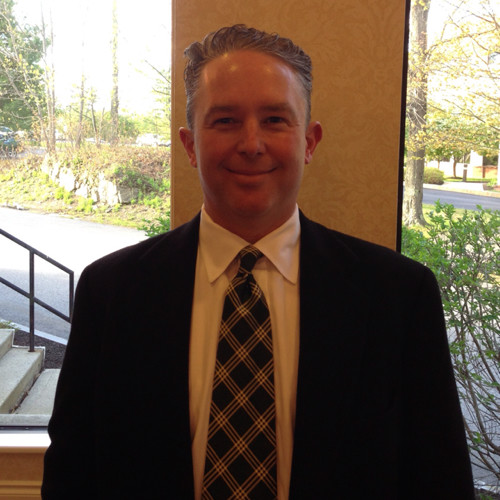
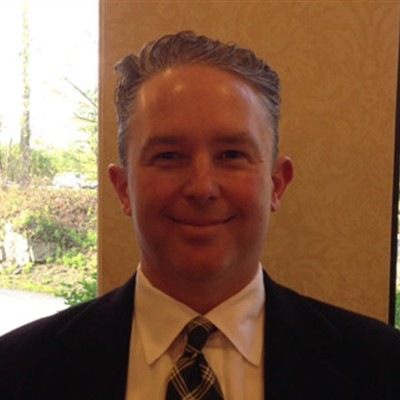
About: tighter crop on Scott's photo

diff --git a/about.html b/about.html
@@ -53,7 +53,7 @@
   <div style="max-width: 1200px; margin: 0px auto; display: grid; gap: 20px;">
     <div style="display: grid; grid-template-columns: repeat(auto-fit, minmax(300px, 1fr)); gap: 20px;">
       <article style="background: rgb(255, 255, 255); border-radius: 28px; padding: 40px; display: grid; gap: 20px; align-content: start;">
-        <img src="/assets/scott.jpg" alt="Scott Karkos, founder of MoorSafe" width="88" height="88" style="width: 88px; height: 88px; border-radius: 50%; object-fit: cover; object-position: 50% 20%;" loading="lazy" decoding="async">
+        <img src="/assets/scott.jpg?v=2" alt="Scott Karkos, founder of MoorSafe" width="88" height="88" style="width: 88px; height: 88px; border-radius: 50%; object-fit: cover; object-position: 50% 20%;" loading="lazy" decoding="async">
         <div style="display: grid; gap: 6px;"><span style="font-size: 13px; font-weight: 700; letter-spacing: 0.08em; text-transform: uppercase; color: rgb(138, 147, 157);">Founder</span><h2 style="font-size: 32px; font-weight: 800;">Scott Karkos</h2></div>
         <p style="font-size: 16px; line-height: 1.6; color: rgb(90, 102, 115); font-weight: 500;">Thirty years of worldwide industrial sourcing and a deep network of manufacturing partners. B.S. in Business, UMass Boston. Scott founded MoorSafe to bring a Maine-built answer to a problem he'd watched harbormasters and boat owners wrestle with year after year.</p>
       </article>

diff --git a/src/pages/about.html b/src/pages/about.html
@@ -30,7 +30,7 @@
   <div style="max-width: 1200px; margin: 0px auto; display: grid; gap: 20px;">
     <div style="display: grid; grid-template-columns: repeat(auto-fit, minmax(300px, 1fr)); gap: 20px;">
       <article style="background: rgb(255, 255, 255); border-radius: 28px; padding: 40px; display: grid; gap: 20px; align-content: start;">
-        <img src="/assets/scott.jpg" alt="Scott Karkos, founder of MoorSafe" width="88" height="88" style="width: 88px; height: 88px; border-radius: 50%; object-fit: cover; object-position: 50% 20%;">
+        <img src="/assets/scott.jpg?v=2" alt="Scott Karkos, founder of MoorSafe" width="88" height="88" style="width: 88px; height: 88px; border-radius: 50%; object-fit: cover; object-position: 50% 20%;">
         <div style="display: grid; gap: 6px;"><span style="font-size: 13px; font-weight: 700; letter-spacing: 0.08em; text-transform: uppercase; color: rgb(138, 147, 157);">Founder</span><h2 style="font-size: 32px; font-weight: 800;">Scott Karkos</h2></div>
         <p style="font-size: 16px; line-height: 1.6; color: rgb(90, 102, 115); font-weight: 500;">Thirty years of worldwide industrial sourcing and a deep network of manufacturing partners. B.S. in Business, UMass Boston. Scott founded MoorSafe to bring a Maine-built answer to a problem he'd watched harbormasters and boat owners wrestle with year after year.</p>
       </article>
